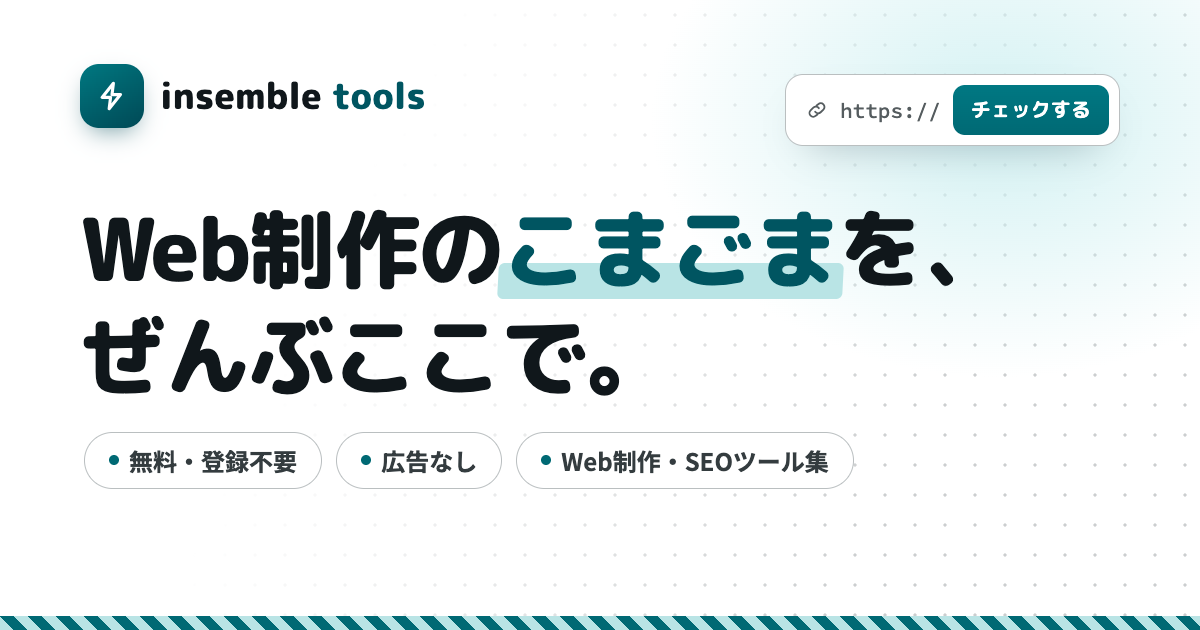
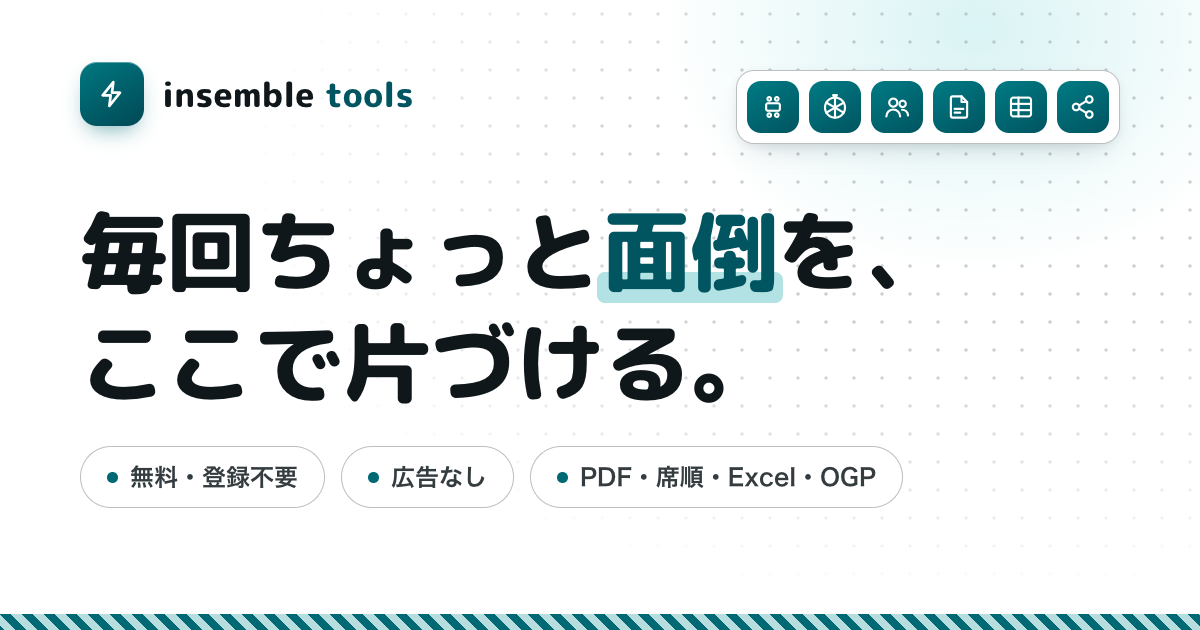
共有用の画像をツールごとに用意する
- 共通の og-image.png を、いまのサイトの内容（毎回ちょっと面倒を、ここで片づける。）で作り直す
- 5つのツールごとに public/og/<slug>.png を用意し、ToolPage が自動で指定する
- これまでの画像（デザインの元データから作ったもの）は public/og/ogp.png として OGPチェッカー専用にする
- npm run og で書き出せるようにする（文言は scripts/og/og.config.mjs。playwright-core は書き出し用の開発依存で、サイトには入らない）
- 制作ルール.md と README に、画像の作り方と公開前のチェックを追記

diff --git a/README.md b/README.md
@@ -50,9 +50,12 @@ npm run preview
    - `/sitemap-index.xml` が出ている
 
 ### 画像（入っています）
-- `public/og-image.png`（1200×630。全ページ共通。ページごとに変えるときは Base の `ogImage` で指定）
+- 共有用の画像（OGP画像・1200×630）
+  - `public/og-image.png`：共通（トップ・規約）
+  - `public/og/<slug>.png`：ツールごと（`ToolPage.astro` が自動で指定する）
+  - どちらも `npm run og` で書き出す（文言は `scripts/og/og.config.mjs`、見た目は `scripts/og/render.mjs`。Google Chrome とネット接続が必要。1枚だけなら `npm run og -- seat`）
+  - `public/og/ogp.png`：OGPチェッカー用。これだけはデザインプロジェクトの「OGP画像.html」から作ったもの。文言を変えたらそちらで書き出し直す
 - `favicon.svg` ／ `favicon-32.png` ／ `favicon-48.png`（Google検索結果用）／ `apple-touch-icon.png`（180）／ `icon-192.png` ／ `icon-512.png` ／ `site.webmanifest`
-- 元データはデザインプロジェクトの「OGP画像.html」。文言を変えたら書き出し直してください。
 
 ### 公開前に用意するもの
 - `src/data/hub.js` の `CHANGELOG`（公開日など）を実際の内容に。更新情報は `SHOW_UPDATES = false` で非表示中
